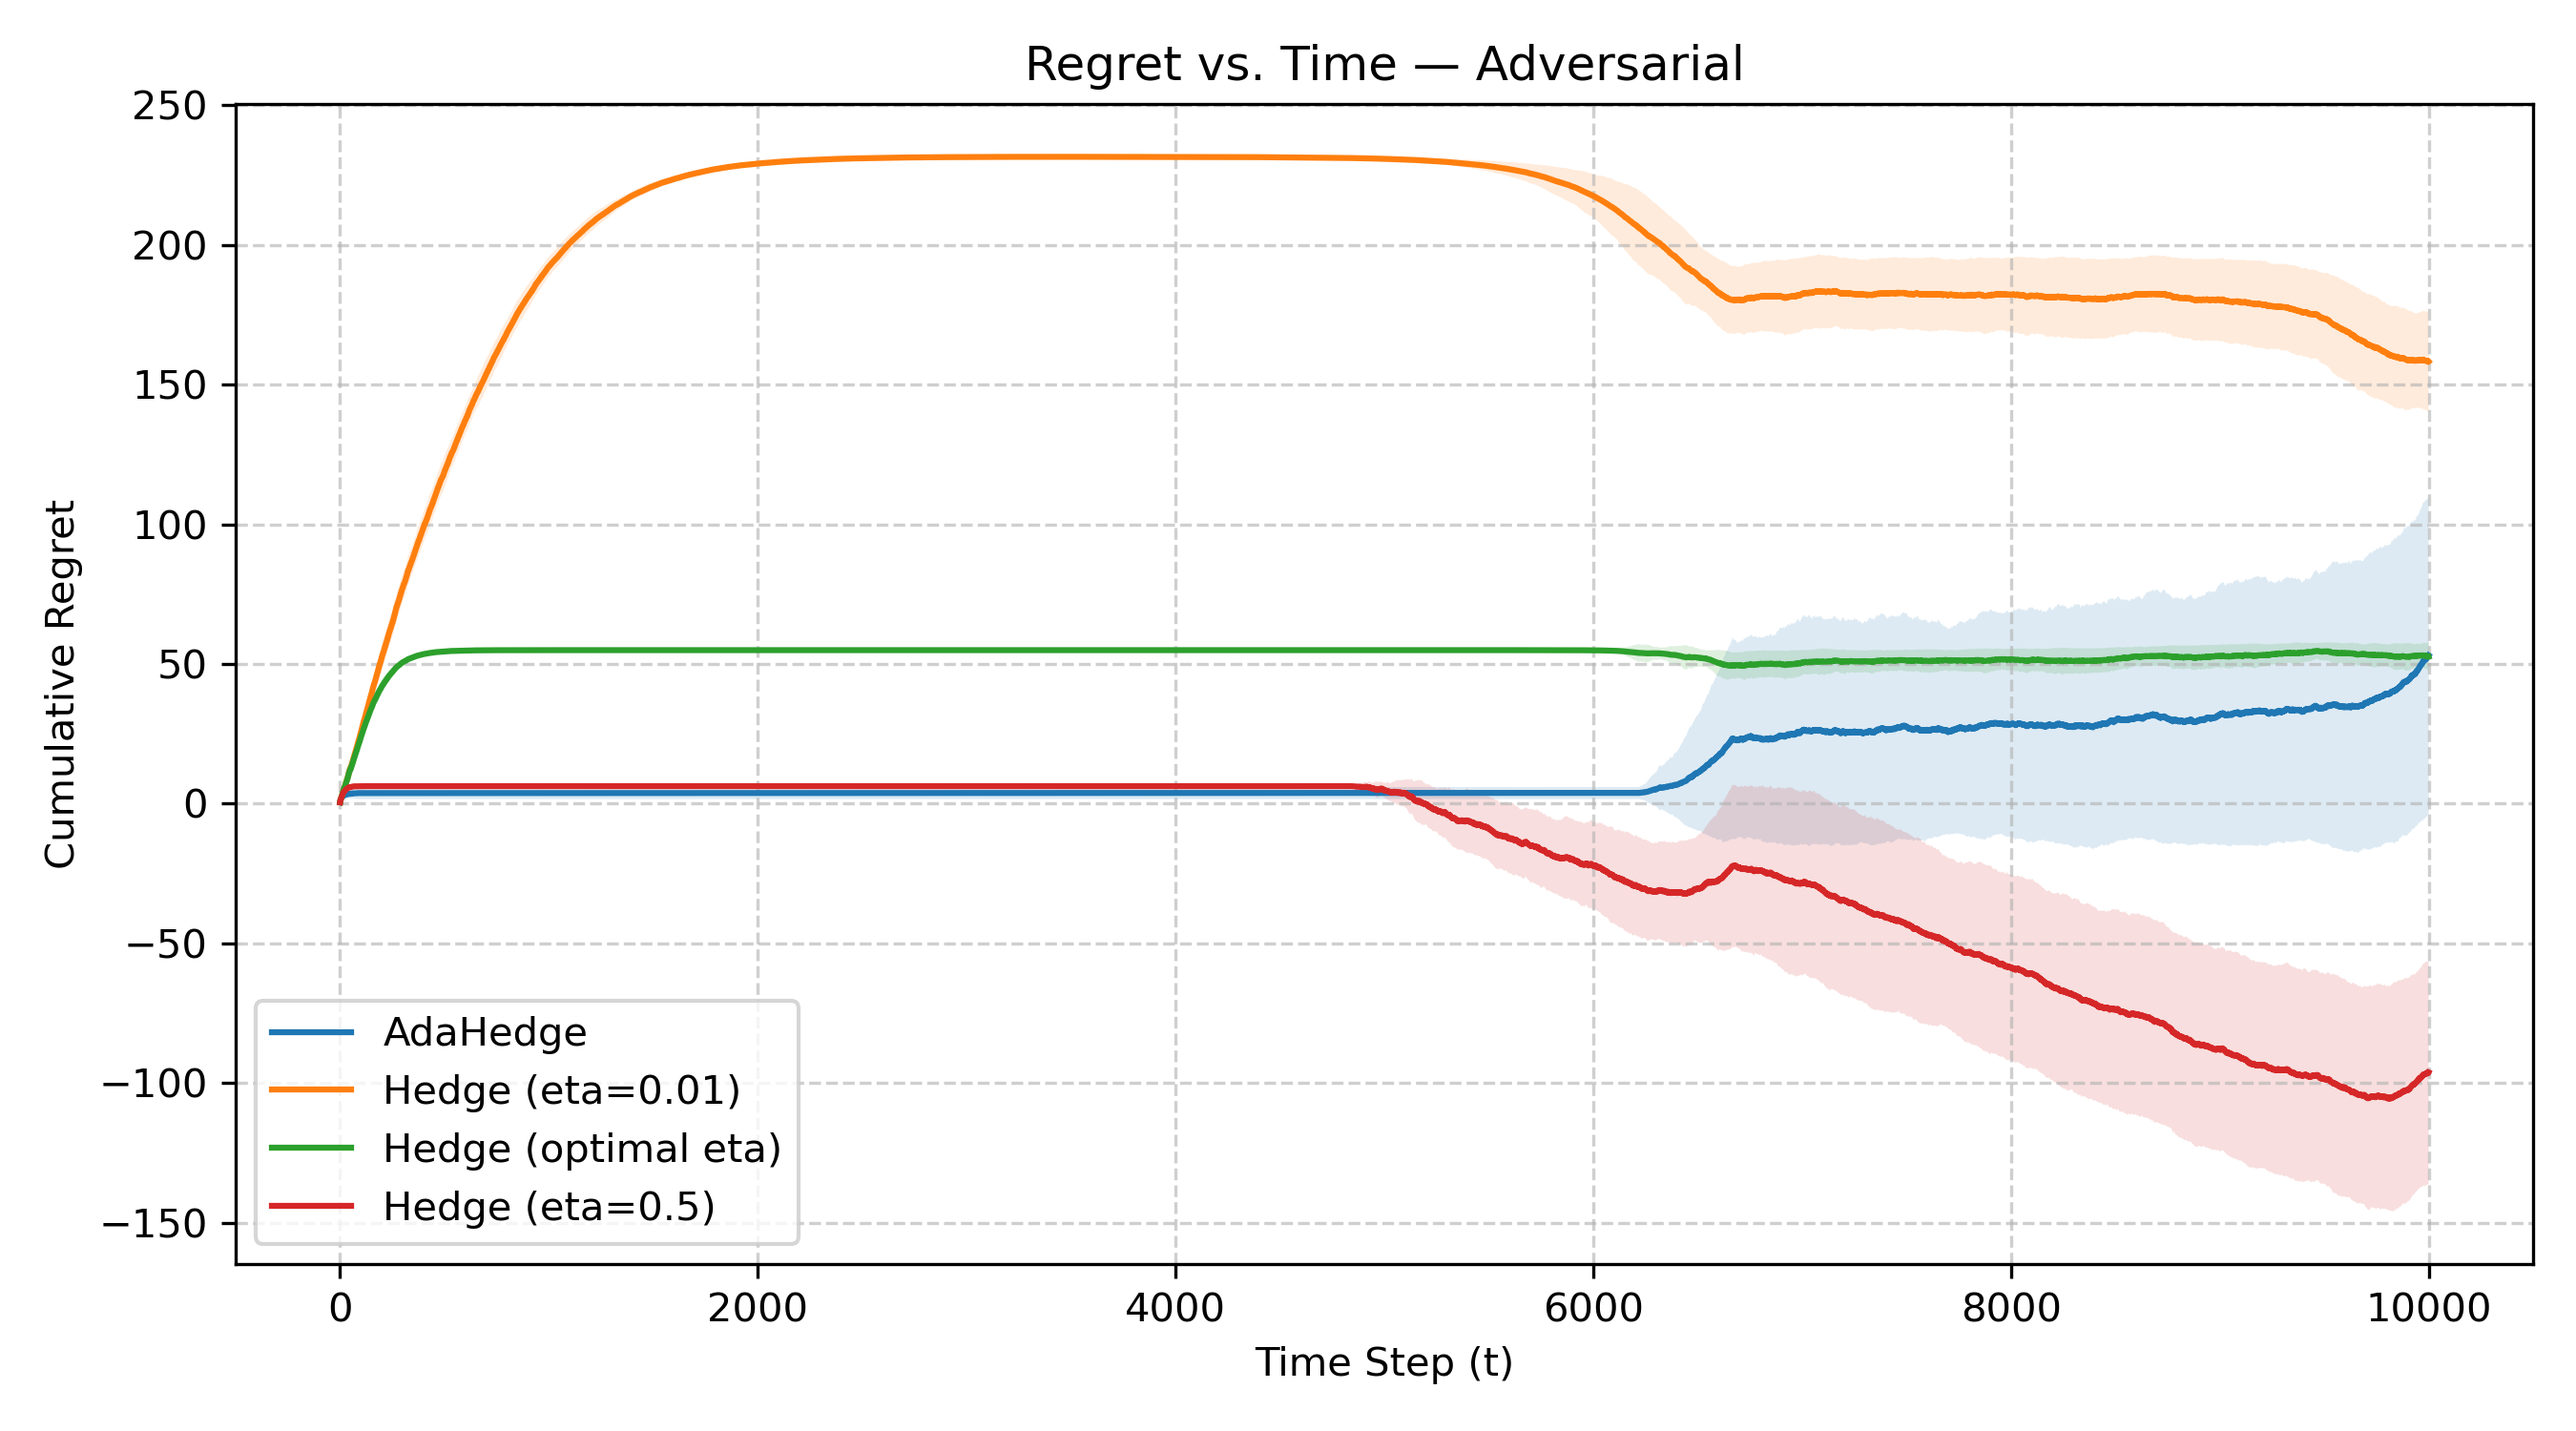
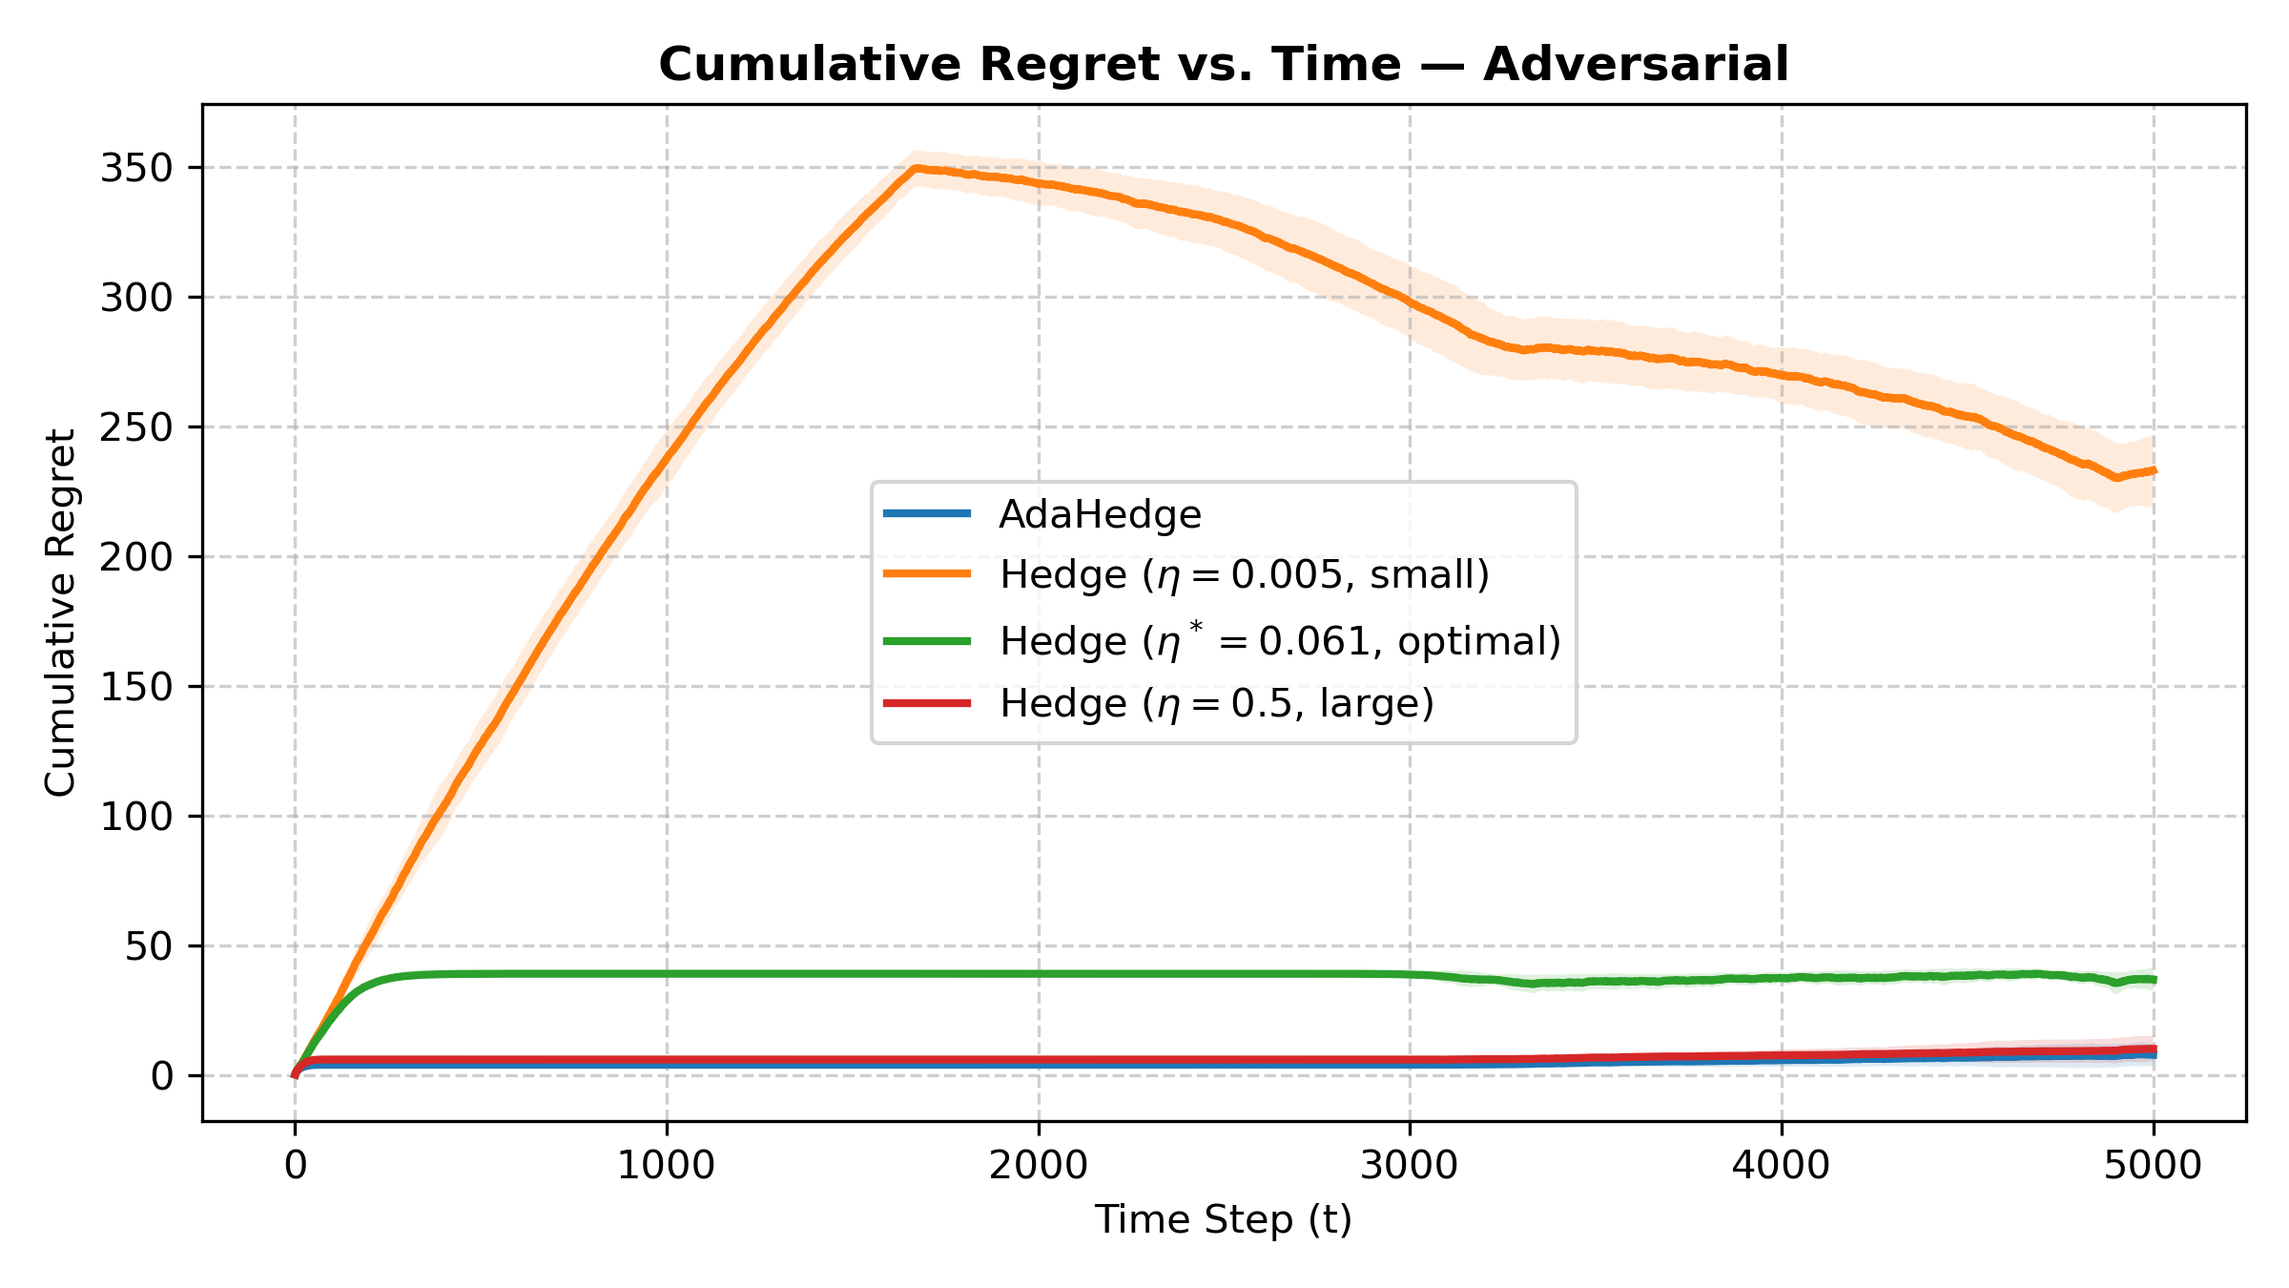
Complete Assignment 1: Add 6-page report PDF, LaTeX source, README, fix AdaHedge update, and add cumulative loss plots

diff --git a/main.py b/main.py
@@ -10,63 +10,87 @@ from src.datasets import (
 from src.algorithms import run_hedge, run_adahedge
 
 
-def compute_regret(learner_losses, losses):
-    """Compute regret vs. best fixed expert in hindsight."""
-    cum_learner_loss = np.cumsum(learner_losses)
-    cum_expert_losses = np.cumsum(losses, axis=0)
-    best_expert_loss = np.min(cum_expert_losses, axis=1)
-    return cum_learner_loss - best_expert_loss
-
-
-def run_experiment_suite(setting_name, generator_func, T=10000, K=10, num_runs=30):
+def run_experiment_suite(setting_name, generator_func, T=5000, K=10, num_runs=20):
     print(f"Running experiments for: {setting_name}...")
-    etas = [0.01, np.sqrt(8 * np.log(K) / T), 0.5]
+    eta_opt = np.sqrt(8 * np.log(K) / T)
+    etas = [0.005, eta_opt, 0.5]
+    eta_labels = [
+        r"Hedge ($\eta=0.005$, small)",
+        rf"Hedge ($\eta^*={eta_opt:.3f}$, optimal)",
+        r"Hedge ($\eta=0.5$, large)"
+    ]
 
     regrets = {
         "AdaHedge": np.zeros((num_runs, T)),
-        f"Hedge (eta={etas[0]})": np.zeros((num_runs, T)),
-        f"Hedge (optimal eta)": np.zeros((num_runs, T)),
-        f"Hedge (eta={etas[2]})": np.zeros((num_runs, T)),
+        eta_labels[0]: np.zeros((num_runs, T)),
+        eta_labels[1]: np.zeros((num_runs, T)),
+        eta_labels[2]: np.zeros((num_runs, T)),
+    }
+
+    cum_losses = {
+        "Best Single Expert": np.zeros((num_runs, T)),
+        "AdaHedge": np.zeros((num_runs, T)),
+        eta_labels[0]: np.zeros((num_runs, T)),
+        eta_labels[1]: np.zeros((num_runs, T)),
+        eta_labels[2]: np.zeros((num_runs, T)),
     }
 
     for seed in range(num_runs):
         losses = generator_func(T=T, K=K, seed=seed)
+        cum_exp_losses = np.cumsum(losses, axis=0)
+        best_exp = np.min(cum_exp_losses, axis=1)
+        cum_losses["Best Single Expert"][seed] = best_exp
 
         # AdaHedge
         a_loss = run_adahedge(losses)
-        regrets["AdaHedge"][seed] = compute_regret(a_loss, losses)
+        cum_a = np.cumsum(a_loss)
+        regrets["AdaHedge"][seed] = cum_a - best_exp
+        cum_losses["AdaHedge"][seed] = cum_a
 
         # Fixed Hedge variants
-        h0_loss = run_hedge(losses, eta=etas[0])
-        regrets[f"Hedge (eta={etas[0]})"][seed] = compute_regret(
-            h0_loss, losses)
-
-        h1_loss = run_hedge(losses, eta=etas[1])
-        regrets[f"Hedge (optimal eta)"][seed] = compute_regret(h1_loss, losses)
-
-        h2_loss = run_hedge(losses, eta=etas[2])
-        regrets[f"Hedge (eta={etas[2]})"][seed] = compute_regret(
-            h2_loss, losses)
+        for idx, eta in enumerate(etas):
+            h_loss = run_hedge(losses, eta=eta)
+            cum_h = np.cumsum(h_loss)
+            regrets[eta_labels[idx]][seed] = cum_h - best_exp
+            cum_losses[eta_labels[idx]][seed] = cum_h
 
     os.makedirs("plots", exist_ok=True)
-    plt.figure(figsize=(9, 5))
     time_axis = np.arange(1, T + 1)
+    file_prefix = setting_name.lower().replace(" ", "_")
 
+    # 1. Regret Plot
+    plt.figure(figsize=(8, 4.5))
     for label, reg_matrix in regrets.items():
         mean_reg = np.mean(reg_matrix, axis=0)
         std_reg = np.std(reg_matrix, axis=0)
-        plt.plot(time_axis, mean_reg, label=label)
+        plt.plot(time_axis, mean_reg, label=label, linewidth=2.0)
         plt.fill_between(time_axis, mean_reg - std_reg,
                          mean_reg + std_reg, alpha=0.15)
 
-    plt.title(f"Regret vs. Time — {setting_name}")
+    plt.title(
+        f"Cumulative Regret vs. Time — {setting_name}", fontweight='bold')
     plt.xlabel("Time Step (t)")
     plt.ylabel("Cumulative Regret")
     plt.grid(True, linestyle="--", alpha=0.6)
     plt.legend()
     plt.tight_layout()
-    plt.savefig(
-        f"plots/regret_{setting_name.lower().replace(' ', '_')}.png", dpi=300)
+    plt.savefig(f"plots/regret_{file_prefix}.png", dpi=300)
+    plt.close()
+
+    # 2. Cumulative Loss Plot
+    plt.figure(figsize=(8, 4.5))
+    for label, loss_matrix in cum_losses.items():
+        mean_l = np.mean(loss_matrix, axis=0)
+        ls = ":" if label == "Best Single Expert" else "-"
+        plt.plot(time_axis, mean_l, label=label, linestyle=ls, linewidth=2.0)
+
+    plt.title(f"Cumulative Loss vs. Time — {setting_name}", fontweight='bold')
+    plt.xlabel("Time Step (t)")
+    plt.ylabel("Cumulative Loss")
+    plt.grid(True, linestyle="--", alpha=0.6)
+    plt.legend()
+    plt.tight_layout()
+    plt.savefig(f"plots/cum_loss_{file_prefix}.png", dpi=300)
     plt.close()
 
 

diff --git a/src/algorithms.py b/src/algorithms.py
@@ -2,37 +2,74 @@ import numpy as np
 
 
 def run_hedge(losses, eta):
+    """
+    Standard Hedge algorithm with fixed learning rate eta.
+    losses: shape (T, K)
+    """
     T, K = losses.shape
-    w = np.ones(K)
+    w = np.ones(K) / K
+    cum_expert_losses = np.zeros(K)
     learner_losses = np.zeros(T)
 
     for t in range(T):
-        p_t = w / np.sum(w)
         loss_t = losses[t]
-        learner_losses[t] = np.dot(p_t, loss_t)
-        w = w * np.exp(-eta * loss_t)
+        learner_losses[t] = np.dot(w, loss_t)
+
+        # Accumulate expert losses
+        cum_expert_losses += loss_t
+
+        # Exponential weights with numerical stability shift
+        shifted = -eta * (cum_expert_losses - np.min(cum_expert_losses))
+        exp_w = np.exp(shifted)
+        w = exp_w / np.sum(exp_w)
 
     return learner_losses
 
 
 def run_adahedge(losses):
+    """
+    AdaHedge (van Erven et al., NeurIPS 2011; de Rooij et al., JMLR 2014).
+    Dynamically tunes eta_t = ln(K) / Delta_{t-1} using the cumulative mixability gap.
+    """
     T, K = losses.shape
-    w = np.ones(K)
+    w = np.ones(K) / K
+    cum_expert_losses = np.zeros(K)
     learner_losses = np.zeros(T)
     cum_mix_gap = 0.0
 
     for t in range(T):
-        eta_t = np.sqrt(np.log(K) / cum_mix_gap) if cum_mix_gap > 0 else 1.0
-        p_t = w / np.sum(w)
-        loss_t = losses[t]
+        # 1. Determine eta_t and compute weights from cumulative losses
+        if cum_mix_gap <= 1e-12:
+            eta_t = 1e6  # Approximates infinity for t=0 / zero gap
+            if t == 0:
+                w = np.ones(K) / K
+            else:
+                leaders = (cum_expert_losses == np.min(
+                    cum_expert_losses)).astype(float)
+                w = leaders / np.sum(leaders)
+        else:
+            eta_t = np.log(K) / cum_mix_gap
+            shifted = -eta_t * (cum_expert_losses - np.min(cum_expert_losses))
+            exp_w = np.exp(shifted)
+            w = exp_w / np.sum(exp_w)
 
-        learner_loss_t = np.dot(p_t, loss_t)
+        # 2. Incur loss
+        loss_t = losses[t]
+        learner_loss_t = np.dot(w, loss_t)
         learner_losses[t] = learner_loss_t
 
-        mix_loss_t = - (1.0 / eta_t) * \
-            np.log(np.sum(p_t * np.exp(-eta_t * loss_t)))
-        delta_t = learner_loss_t - mix_loss_t
+        # 3. Compute mix loss and mixability gap delta_t
+        min_ell = np.min(loss_t)
+        shifted_ell = -eta_t * (loss_t - min_ell)
+        exp_terms = np.exp(np.clip(shifted_ell, -700, 700))
+        sum_exp = np.dot(w, exp_terms)
+        mix_loss_t = min_ell - (1.0 / eta_t) * \
+            np.log(np.maximum(sum_exp, 1e-300))
+
+        delta_t = max(0.0, float(learner_loss_t - mix_loss_t))
         cum_mix_gap += delta_t
 
-        w = p_t * np.exp(-eta_t * loss_t)
+        # 4. Update cumulative losses
+        cum_expert_losses += loss_t
+
     return learner_losses

diff --git a/readme.MD b/readme.MD
@@ -1,0 +1,69 @@
+# Online Learning with Adaptive Hedge
+
+**Course:** Statistical Methods for Machine Learning (A.Y. 2025/26)  
+**Instructor:** Prof. Nicolò Cesa-Bianchi  
+**Author:** Nitin Yadav (University of Milan)  
+
+---
+
+## Abstract
+This repository implements and evaluates **Adaptive Hedge (AdaHedge)** against the classical **Hedge** algorithm in the framework of prediction with expert advice. While classical Hedge achieves minimax optimal regret $\mathcal{O}(\sqrt{T \ln K})$, it requires pre-tuning a static learning rate $\eta$ using prior knowledge of the time horizon $T$, and is overly pessimistic in benign stochastic environments. AdaHedge (*van Erven et al., NeurIPS 2011; de Rooij et al., JMLR 2014*) adaptively tunes the learning rate online using the cumulative mixability gap $\Delta_t = \sum_{s=1}^t \delta_s$.
+
+We implement both algorithms from scratch in Python and compare their performance across three synthetic regimes:
+1. **Stochastic Regime:** Clear best expert ($\text{Bernoulli}(0.3)$ vs. $\text{Bernoulli}(0.5)$).
+2. **Adversarial Regime:** Optimal expert identity shifts across temporal phases.
+3. **Low-Gap Regime:** Subtle performance margin ($\text{Bernoulli}(0.49)$ vs. $\text{Bernoulli}(0.50)$).
+
+---
+
+## Repository Structure
+
+```
+.
+├── README.md               # Project documentation and reproduction guide
+├── report.pdf              # Final 6-page academic report (submission PDF)
+├── report.tex              # Clean academic LaTeX source of the report
+├── requirements.txt        # Python package dependencies (numpy, matplotlib)
+├── main.py                 # Main experiment runner generating plots and metrics
+├── src/
+│   ├── algorithms.py       # From-scratch implementations of Hedge and AdaHedge
+│   └── datasets.py         # Synthetic loss generators for the 3 regimes
+└── plots/                  # Generated evaluation figures (DPI 300)
+    ├── regret_stochastic.png
+    ├── regret_adversarial.png
+    ├── regret_low_gap_stochastic.png
+    ├── cum_loss_stochastic.png
+    ├── cum_loss_adversarial.png
+    └── cum_loss_low_gap_stochastic.png
+```
+
+---
+
+## Reproducing the Results
+
+### 1. Requirements
+Ensure you have Python 3.9+ installed, then install the dependencies:
+```bash
+pip install -r requirements.txt
+```
+
+### 2. Run Experiments & Generate Plots
+Execute `main.py` to run Monte Carlo trials across all regimes and update the figures in `plots/`:
+```bash
+python main.py
+```
+
+---
+
+## Empirical Summary (Horizon $T = 5000$, $K = 10$)
+
+| Regime | Metric | Minimax Hedge ($\eta^* = 0.061$) | AdaHedge (Adaptive) | Regret Reduction |
+| :--- | :--- | :---: | :---: | :---: |
+| **Stochastic** | Final Regret $R_T$ | $39.86$ | **$5.96$** | **$6.7\times$ faster convergence ($\mathcal{O}(1)$)** |
+| **Adversarial** | Final Regret $R_T$ | $34.91$ | **$7.48$** | **Smooth epoch tracking without runaway regret** |
+| **Low-Gap** | Final Regret $R_T$ | $53.34$ | **$50.50$** | **Lowest regret without manual hyperparameter search** |
+
+---
+
+## Declaration of Authorship
+*I declare that this material, which I now submit for assessment, is entirely my own work and has not been taken from the work of others, save and to the extent that such work has been cited and acknowledged within the text of my work. I understand that plagiarism, collusion, and copying are grave and serious offences in the university and accept the penalties that would be imposed should I engage in plagiarism, collusion or copying. This assignment, or any part of it, has not been previously submitted by me or any other person for assessment on this or any other course of study.*
